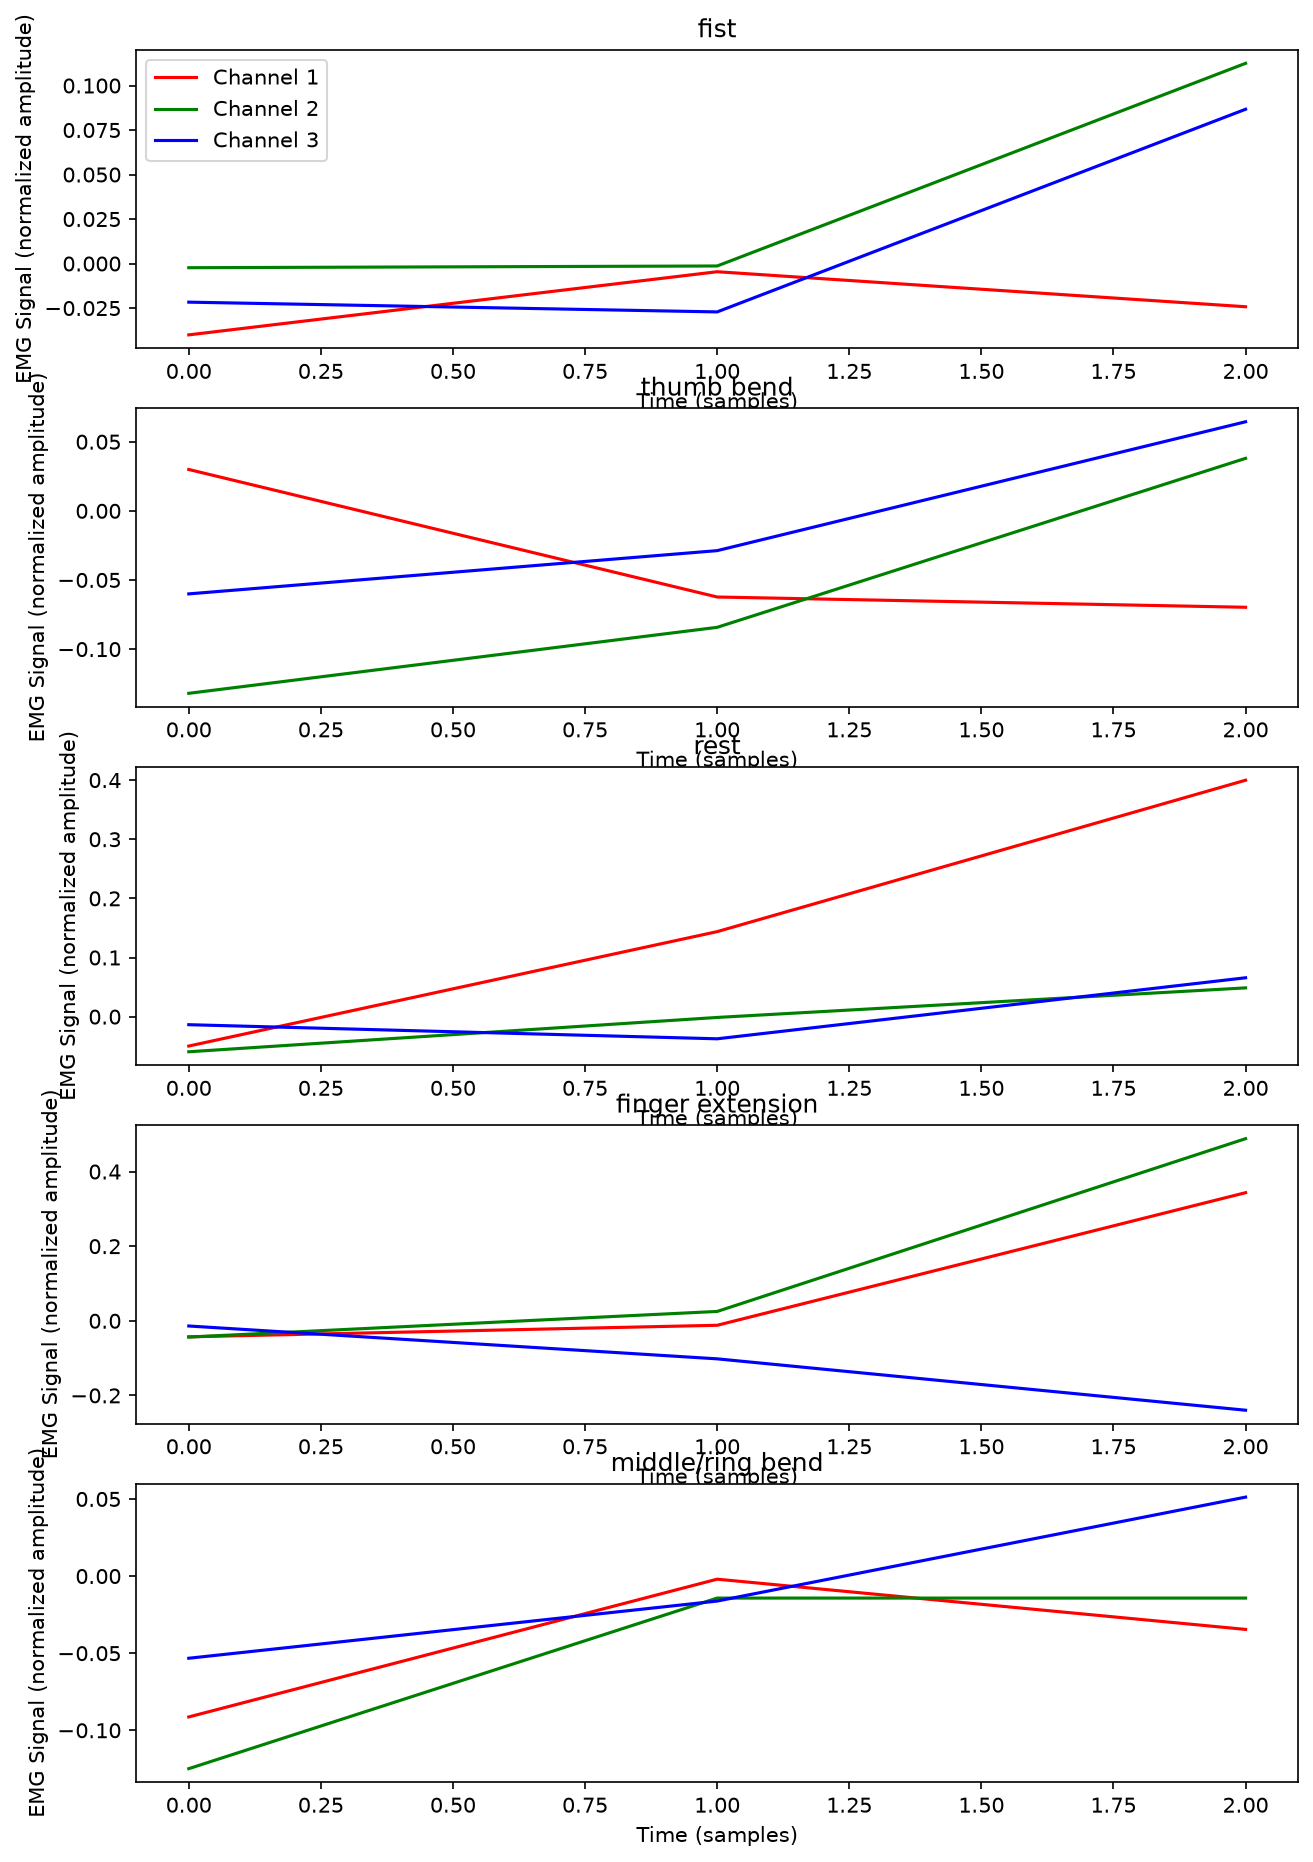
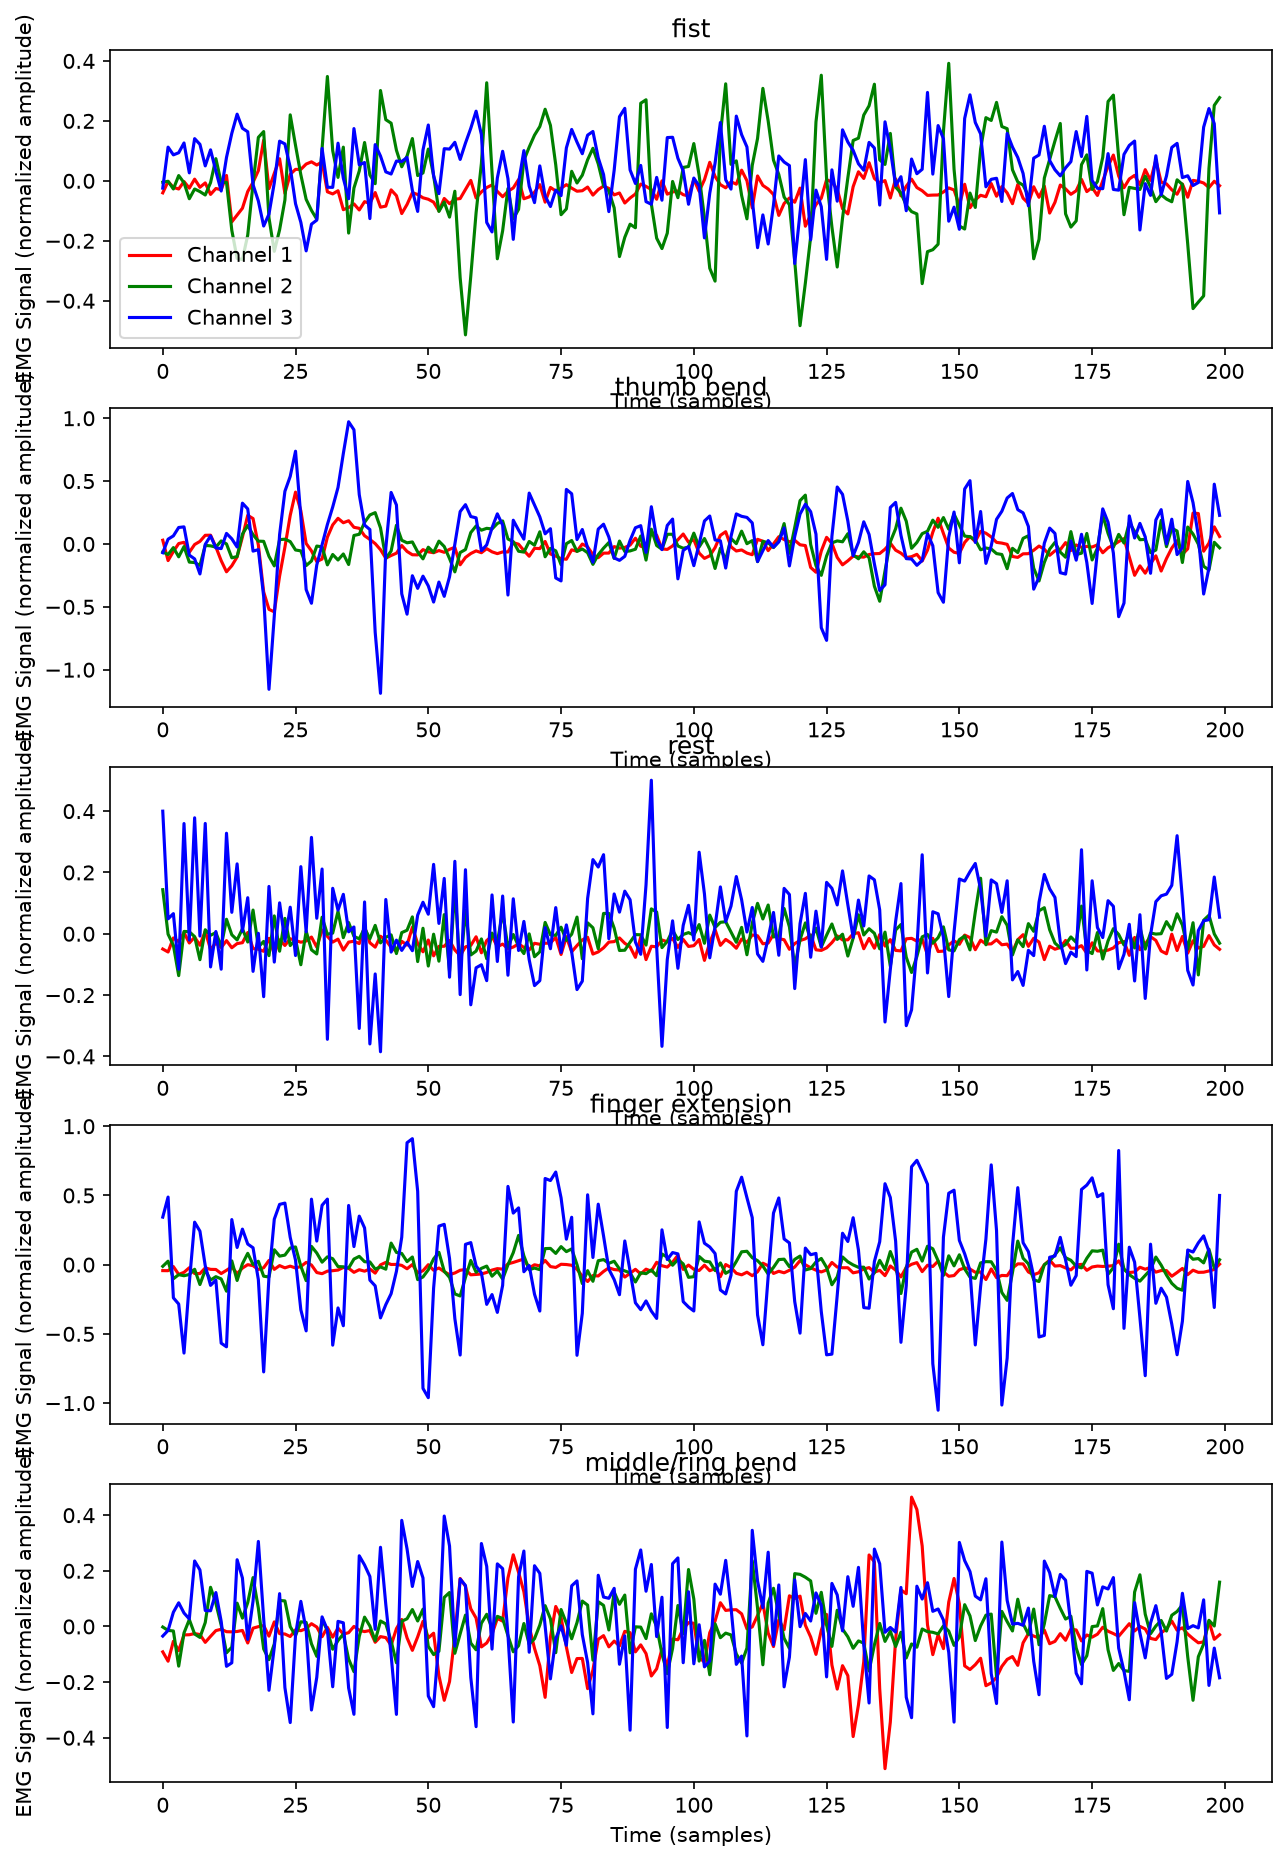
Clean up data summary prints, add Phase 6b channel-activation chart

diff --git a/README.md b/README.md
@@ -85,6 +85,7 @@ Six phases in the notebook:
 | 4 | Plot one example window per gesture, side by side | 5 plots |
 | 5 | Check for missing values, dead/flat windows, and the signal range | no problems found |
 | 6 | Get the mean absolute value per channel, split into train/test, train a `LogisticRegression` model | `features`, shape (174000, 3), accuracy around 63% |
+| 6b | Bar chart of average channel activation (MAV) per gesture | shows which channels separate which gestures |
 
 ---
 
@@ -100,6 +101,5 @@ A simple classifier (logistic regression using the mean absolute value of each c
 
 - Try more features per channel (RMS, waveform length, zero-crossing rate), not just mean absolute value
 - Try other models to compare
-- Double check the gesture-to-column mapping against DS1
 - Eventually try real-time classification for actual prosthetic control
 - Raw data files aren't in this repo, see the note above and `.gitignore`